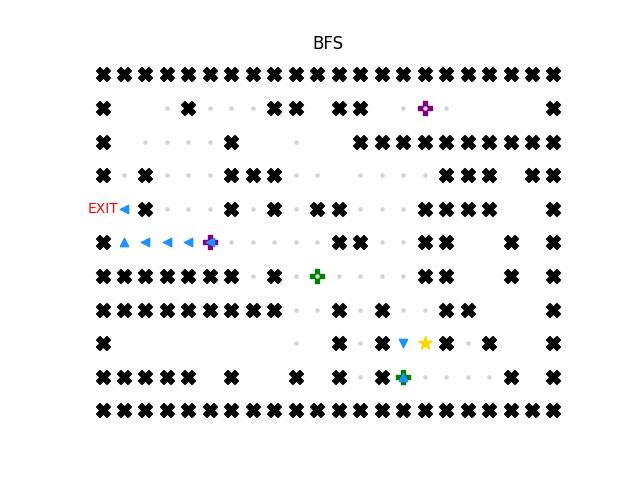
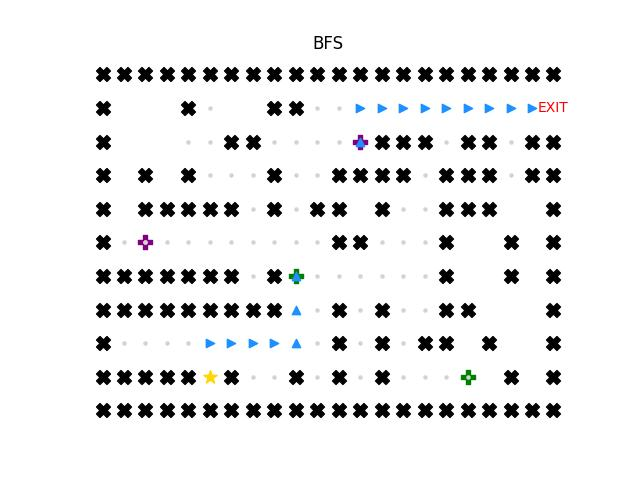
generate image

diff --git a/source/main.py b/source/main.py
@@ -35,11 +35,11 @@ def main(argv):
         visualize_maze(matrix,bonus_points,start,end,out_put,name,route,explored,True)
     
     if 'level_1' in in_file:
-        # out_put = './output/' + out_file + '/bfs/BFS.jpg'
-        # name = 'BFS'
-        # route,explored,cost = BFS(matrix,start,end,bonus_points)
-        # write_cost_path(cost, './output/' + out_file + '/bfs/BFS.txt')
-        # visualize_maze(matrix,bonus_points,start,end,out_put,name,route,explored)
+        out_put = './output/' + out_file + '/bfs/BFS.jpg'
+        name = 'BFS'
+        route,explored,cost = BFS(matrix,start,end,bonus_points)
+        write_cost_path(cost, './output/' + out_file + '/bfs/BFS.txt')
+        visualize_maze(matrix,bonus_points,start,end,out_put,name,route,explored)
 
         out_put = './output/' + out_file + '/dfs/DFS.jpg'
         name = 'DFS'
@@ -47,17 +47,17 @@ def main(argv):
         write_cost_path(cost, './output/' + out_file + '/dfs/DFS.txt')
         visualize_maze(matrix,bonus_points,start,end,out_put,name,route,explored)
 
-        # out_put = './output/' + out_file + '/ucs/UCS.jpg'
-        # name = 'UCS'
-        # route,explored,cost = UCS(matrix,start,end,bonus_points)
-        # write_cost_path(cost, './output/' + out_file + '/ucs/UCS.txt')
-        # visualize_maze(matrix,bonus_points,start,end,out_put,name,route,explored)
+        out_put = './output/' + out_file + '/ucs/UCS.jpg'
+        name = 'UCS'
+        route,explored,cost = UCS(matrix,start,end,bonus_points)
+        write_cost_path(cost, './output/' + out_file + '/ucs/UCS.txt')
+        visualize_maze(matrix,bonus_points,start,end,out_put,name,route,explored)
 
-        # out_put = './output/' + out_file + '/gbfs/GBFS.jpg'
-        # name = 'GBFS'
-        # route,explored,cost = GBFS(matrix,start,end,bonus_points)
-        # write_cost_path(cost, './output/' + out_file + '/gbfs/GBFS.txt')
-        # visualize_maze(matrix,bonus_points,start,end,out_put,name,route,explored)
+        out_put = './output/' + out_file + '/gbfs/GBFS.jpg'
+        name = 'GBFS'
+        route,explored,cost = GBFS(matrix,start,end,bonus_points)
+        write_cost_path(cost, './output/' + out_file + '/gbfs/GBFS.txt')
+        visualize_maze(matrix,bonus_points,start,end,out_put,name,route,explored)
 
         out_put = './output/' + out_file + '/astar/astar.jpg'
         name = 'AStar'
@@ -66,11 +66,11 @@ def main(argv):
         visualize_maze(matrix,bonus_points,start,end,out_put,name,route,explored)
 
     if 'level_2' in in_file:
-        # out_put = './output/' + out_file + '/dp/dp.jpg'
-        # name = 'DP'
-        # route,explored,cost = DP(matrix,start,end,bonus_points)
-        # write_cost_path(cost, './output/' + out_file + '/dp/dp.txt')
-        # visualize_maze(matrix,bonus_points,start,end,out_put,name,route,explored)
+        out_put = './output/' + out_file + '/dp/dp.jpg'
+        name = 'DP'
+        route,explored,cost = DP(matrix,start,end,bonus_points)
+        write_cost_path(cost, './output/' + out_file + '/dp/dp.txt')
+        visualize_maze(matrix,bonus_points,start,end,out_put,name,route,explored)
 
 
         out_put = './output/' + out_file + '/astar_lv2/astar_lv2.jpg'
@@ -84,12 +84,7 @@ def main(argv):
         route,explored,cost = HILL_CLIMBING(matrix,start,end,bonus_points)
         write_cost_path(cost, './output/' + out_file + '/hill_climbing/hill_climbing.txt')
         visualize_maze(matrix,bonus_points,start,end,out_put,name,route,explored)
-
-    # out_put = './output/' + out_file + '/hill_climbing/hill_climbing.jpg'
-    # name = 'Hill Climbing'
-    # route,explored,cost = HILL_CLIMBING(matrix,start,end,bonus_points)
-    # write_cost_path(cost, './output/' + out_file + '/hill_climbing/hill_climbing.txt')
-    # visualize_maze(matrix,bonus_points,start,end,out_put,name,route,explored)
+        
 
 if __name__ == '__main__':
     main(sys.argv[1:])
